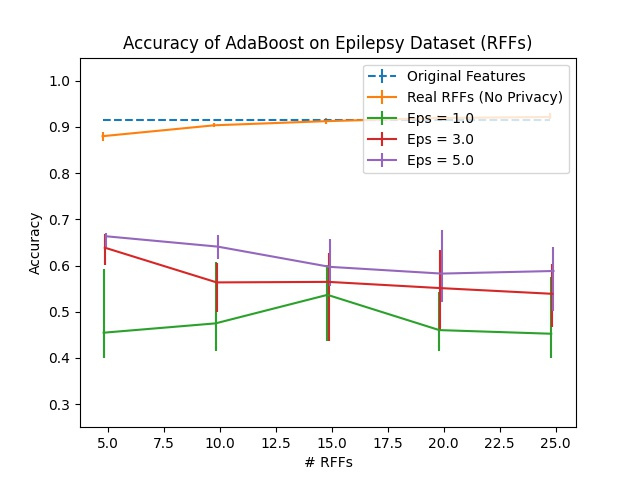
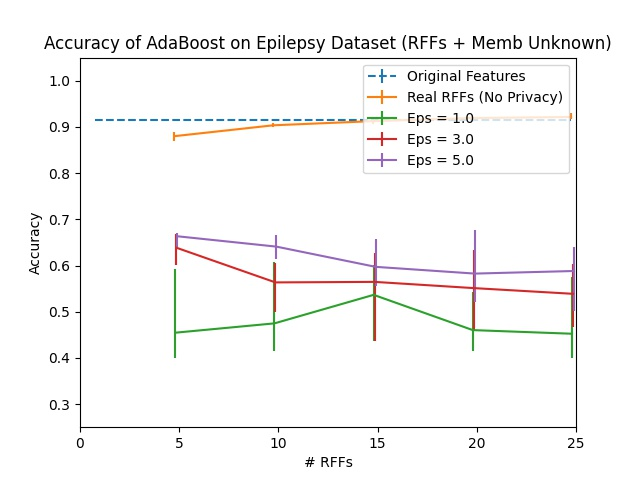
add covtype join experiments

diff --git a/multi-dim-featcreation/Submission_Plots/Replot.py b/multi-dim-featcreation/Submission_Plots/Replot.py
@@ -15,36 +15,36 @@ dataset_to_string = {
 	'epileptic': 'Epilepsy Dataset'
 }
 
-dataset = 'covtype67'
+dataset = 'epileptic'
 algs = ['AdaBoost', 'RandomForest', 'KNN']
 # algs = ['LogisticRegression', 'MultiLayerPerceptron']
 num_trials = 25
 total_eps_list = [1.0, 3.0, 5.0]
 for alg in algs:
-	file = '%s_pcalaplace_%s_trials=%i' % (dataset, alg.lower(), num_trials)
+	file = '%sjoin_rffrealclip_%s_trials=%i' % (dataset, alg.lower(), num_trials)
 	alg_df = pd.read_csv('%s.csv' % file)
 	alg_df = alg_df.set_index('Dimension')
 	print(alg_df)
 
 	shift = -0.25
 	# Edit!
-	plt.ylim((0.45, 1.05))
+	plt.ylim((0.25, 1.05))
 	plt.xlim((0, 25))
-	plt.errorbar(np.array([1, 5, 10, 15, 20, 25]) + shift, alg_df['Original Features'], \
+	plt.errorbar(np.array([1, 10, 15, 20, 25]) + shift, alg_df['Original Features'], \
 		yerr = np.zeros(shape = (2, len(alg_df))), label = 'Original Features', linestyle = 'dashed')
-	plt.errorbar(alg_df.index + shift, alg_df['PCA'], \
-		yerr = np.zeros(shape = (2, len(alg_df))), label = 'PCA (No Privacy)')
-	# plt.errorbar(alg_df.index + shift, alg_df['RFF Real'], \
-	#   	yerr = alg_df[['RFF Real 25', 'RFF Real 75']].to_numpy().T, label = 'Real RFFs (No Privacy)')
+	# plt.errorbar(alg_df.index + shift, alg_df['PCA'], \
+	# 	yerr = np.zeros(shape = (2, len(alg_df))), label = 'PCA (No Privacy)')
+	plt.errorbar(alg_df.index + shift, alg_df['RFF Real'], \
+	  	yerr = alg_df[['RFF Real 25', 'RFF Real 75']].to_numpy().T, label = 'Real RFFs (No Privacy)')
 	shift += 0.05
 	for total_eps in total_eps_list:
 		plt.errorbar(alg_df.index + shift, alg_df['Eps = %s' % str(total_eps)], \
 			yerr = alg_df[['Eps = %s 25' % str(total_eps), 'Eps = %s 75' % str(total_eps)]].to_numpy().T, label = 'Eps = %s' % str(total_eps))
 		shift += 0.05
 
-	plt.xlabel("# Principal Components")
+	plt.xlabel("# RFFs")
 	plt.ylabel("Accuracy")
-	plt.title('Accuracy of %s on %s (PCA)' % (algs_to_string[alg], dataset_to_string[dataset]))
+	plt.title('Accuracy of %s on %s (RFFs + Memb Unknown)' % (algs_to_string[alg], dataset_to_string[dataset]))
 	plt.legend(loc = "upper right")
 	plt.savefig('%s.jpg' % file)
 	plt.close()

diff --git a/multi-dim-featcreation/covtype67_all_experiments/covtype67join_privatepca.py b/multi-dim-featcreation/covtype67_all_experiments/covtype67join_privatepca.py
@@ -169,7 +169,7 @@ if __name__ == "__main__":
 	for dim in sketch_dim:
 		print('Dimension %i' % dim)
 
-		sens, means, pca = priv_power_method(f_train, num_iters, dim)
+		sens, means, pca = priv_pca_laplace(f_train, num_iters, dim)
 		f_train_pca = np.matmul(f_train, pca)
 		f_test_pca = np.matmul(f_test, pca)
 		for alg in algs:
@@ -180,15 +180,15 @@ if __name__ == "__main__":
 		for total_eps in total_eps_list:
 			print('Total Eps = %s' % str(total_eps))
 			eps_pca = total_eps / (dim + 2)
-			eps_memb = 1000 #total_eps / (dim + 1)
-			eps_val = total_eps - eps_pca - total_eps / (dim + 2)
+			eps_memb = total_eps / (dim + 2)
+			eps_val = total_eps - eps_pca - eps_memb
 			
 			for alg in algs:
 				trial_dict[alg] = []
 			
 			for trial in range(num_trials):
 				print('Trial %i' % (trial + 1))
-				sens, means, priv_pca = priv_power_method(f_train, num_iters, dim, eps_pca)
+				sens, means, priv_pca = priv_pca_laplace(f_train, num_iters, dim, eps_pca)
 				f_train_priv = np.matmul(0.5 * (np.divide(f_train, np.tile(sens, (f_train.shape[0], 1))) + 1.0) - means, priv_pca)
 				f_test_priv = np.matmul(0.5 * (np.divide(f_test, np.tile(sens, (f_test.shape[0], 1))) + 1.0) - means, priv_pca)
 				# mean_train = np.mean(f_train_priv, axis = 0, keepdims = True)
@@ -215,7 +215,7 @@ if __name__ == "__main__":
 		alg_df = alg_df
 		print(alg_df)
 
-		file = 'covtype67joinperfectmemb_pcalaplace_%s_trials=%i' % (alg.lower(), num_trials)
+		file = 'covtype67join_pcalaplace_%s_trials=%i' % (alg.lower(), num_trials)
 		alg_df.to_csv('%s.csv' % file)
 		shift = -0.25
 		plt.ylim((0.0, 1.0))
